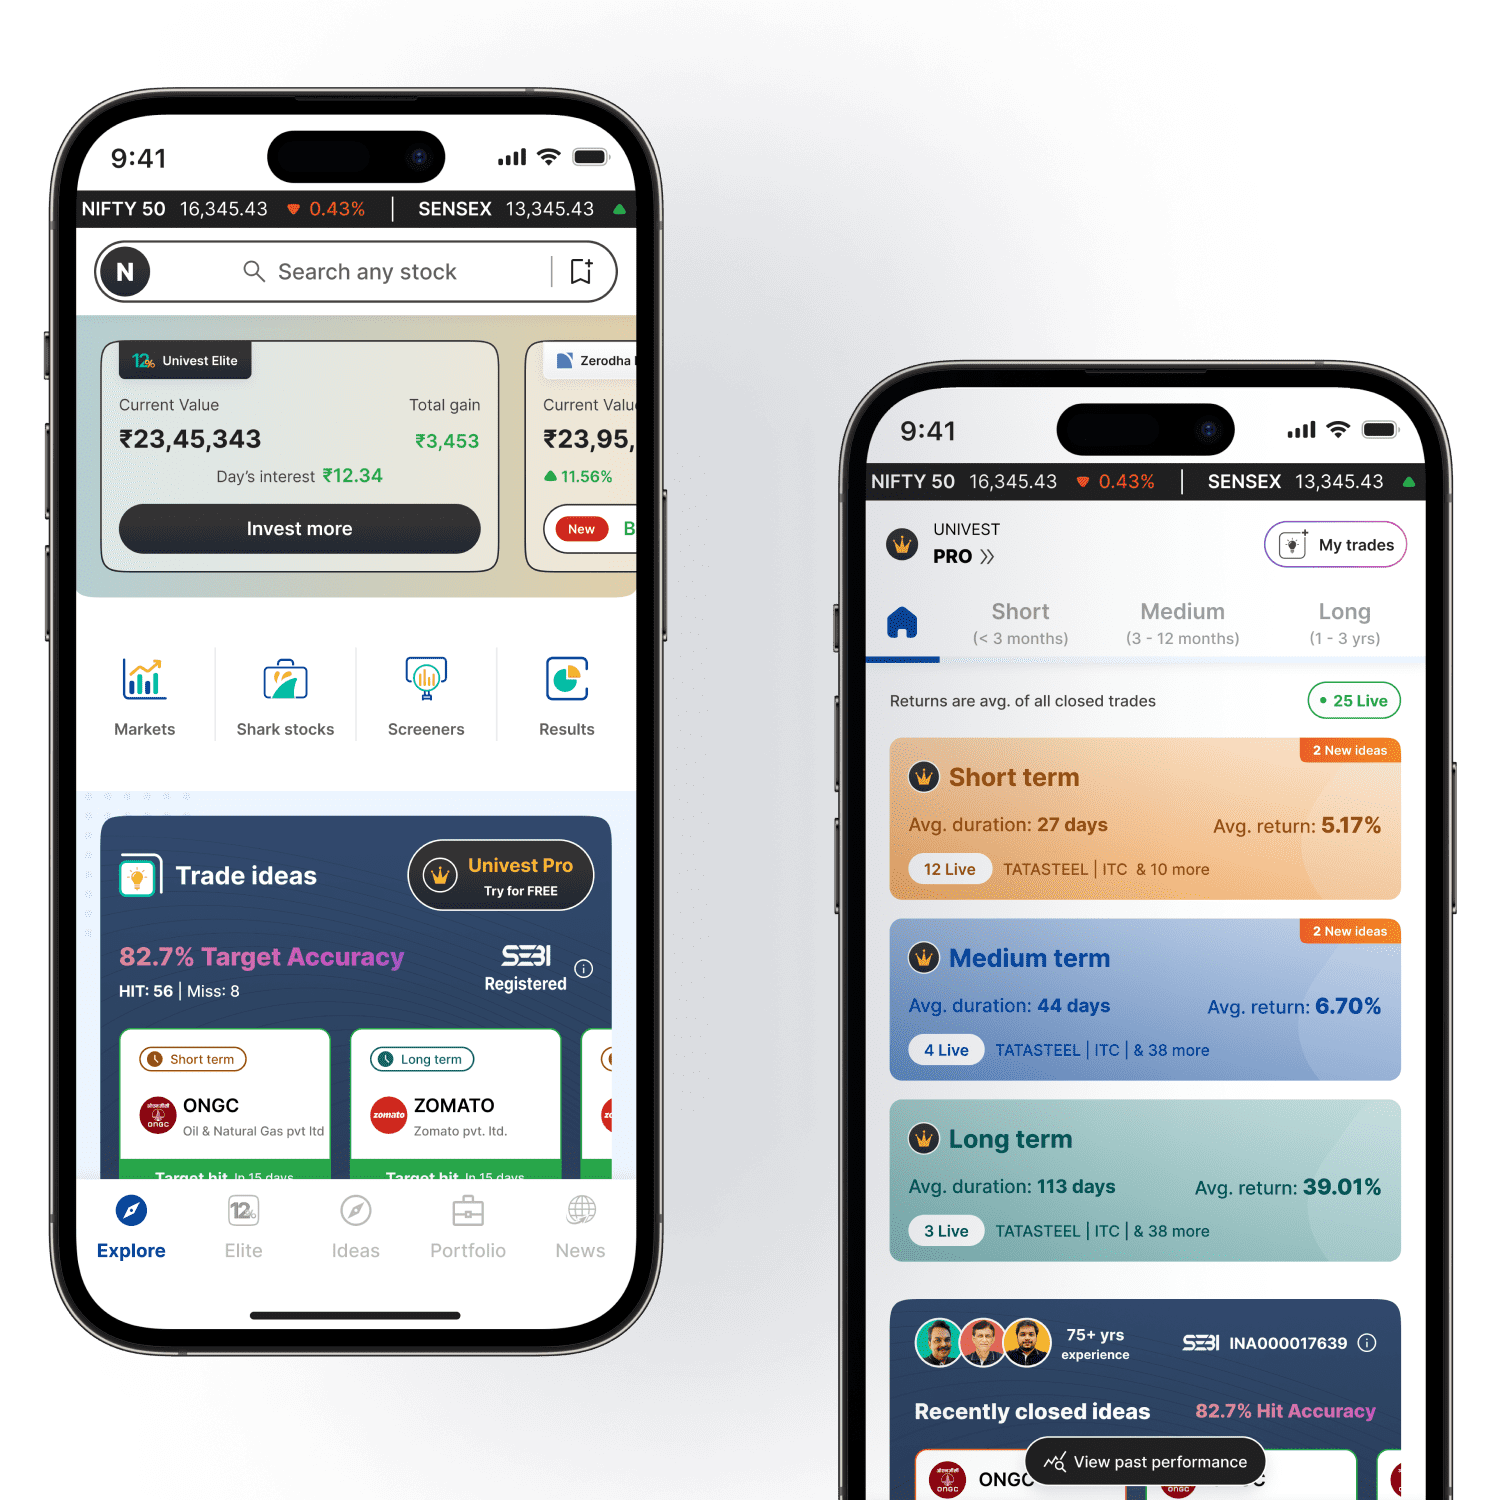
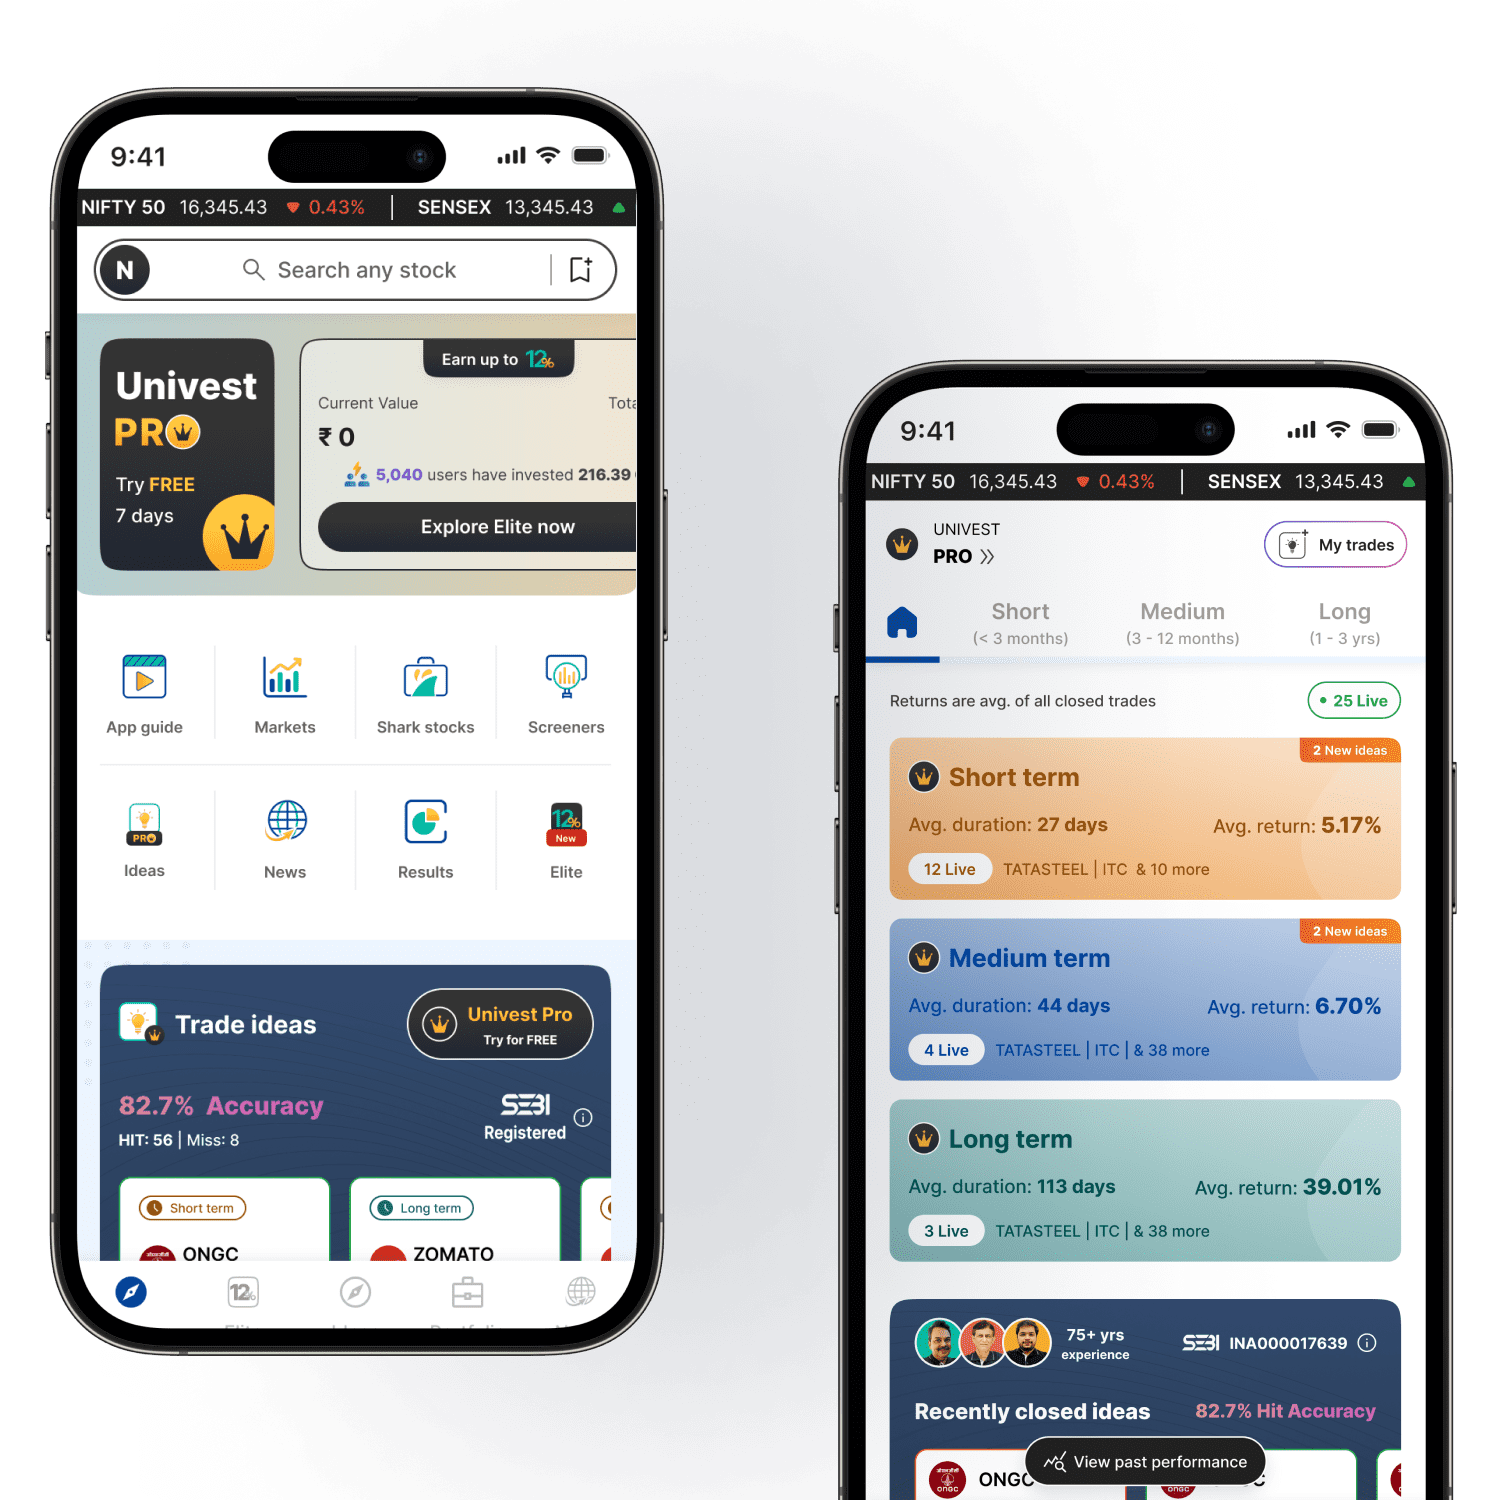
bug fixed

diff --git a/src/components/ProPage/QuarterlyPortfolioSection.js b/src/components/ProPage/QuarterlyPortfolioSection.js
@@ -3,6 +3,8 @@ import quarterly_heart_beat from '../../assets/images/quarterly_heart_beat.png';
 import quarterly_percent from '../../assets/images/quarterly_percent.png';
 import quarterly_exchange from '../../assets/images/quarterly_exchange.png';
 import quarterly_red_flag from '../../assets/images/quarterly_red_flag.png';
+import { BlackButton } from '@/elements/Button/Button';
+import { popUp } from '@/elements/PopUp/PopUp';
 
 const data = [
     { name: 'Portfolio health', icon: quarterly_heart_beat },
@@ -26,6 +28,9 @@ export default function QuarterlyPortfolioSection() {
                         <Image src={ele.icon} alt={ele.name} className='rounded-full bg-white w-12 h-12 lg:w-20 lg:h-20' />
                         <p className='mt-5 font-semibold text-xs lg:text-xl text-white'>{ele.name}</p>
                     </div>)}
+                </div>
+                <div className='flex justify-center mb-1 pt-4'>
+                    <BlackButton onClick={() => window.open('https://univest.s3.ap-south-1.amazonaws.com/faq/1-merged.pdf', '_blank')} text='View sample report' className='px-8 lg:px-12 py-3 text-sm lg:text-xl font-extrabold' />
                 </div>
             </div>
         </section>

diff --git a/src/components/ProPage/ProBarSection.js b/src/components/ProPage/ProBarSection.js
@@ -10,10 +10,10 @@ import { useDebounce } from "@uidotdev/usehooks";
 
 let sec = [0, 1265, 2040, 2980, 7000]
 const data = [
-    { name: 'Unlimited<br/> trade ideas', id: 'Ideas', icon: trade_ideas },
-    { name: 'Premium<br/> Screeners', id: 'Screeners', icon: screeners_pro },
-    { name: 'Additional<br/>cashback on Elite', id: 'AvailablePlans', icon: elite_pro },
-    { name: 'Expert<br/> Advisory', id: 'QuarterlyPortfolio', icon: portfolio_pro },
+    { name: 'Trusted<br/> trade ideas', id: 'Ideas', icon: trade_ideas },
+    { name: 'Premium<br/> screeners', id: 'Screeners', icon: screeners_pro },
+    { name: 'Earn extra<br/>on Elite investments', id: 'AvailablePlans', icon: elite_pro },
+    { name: 'Quarterly<br/> portfolio review', id: 'QuarterlyPortfolio', icon: portfolio_pro },
 
 ]
 export default function ProBarSection() {
